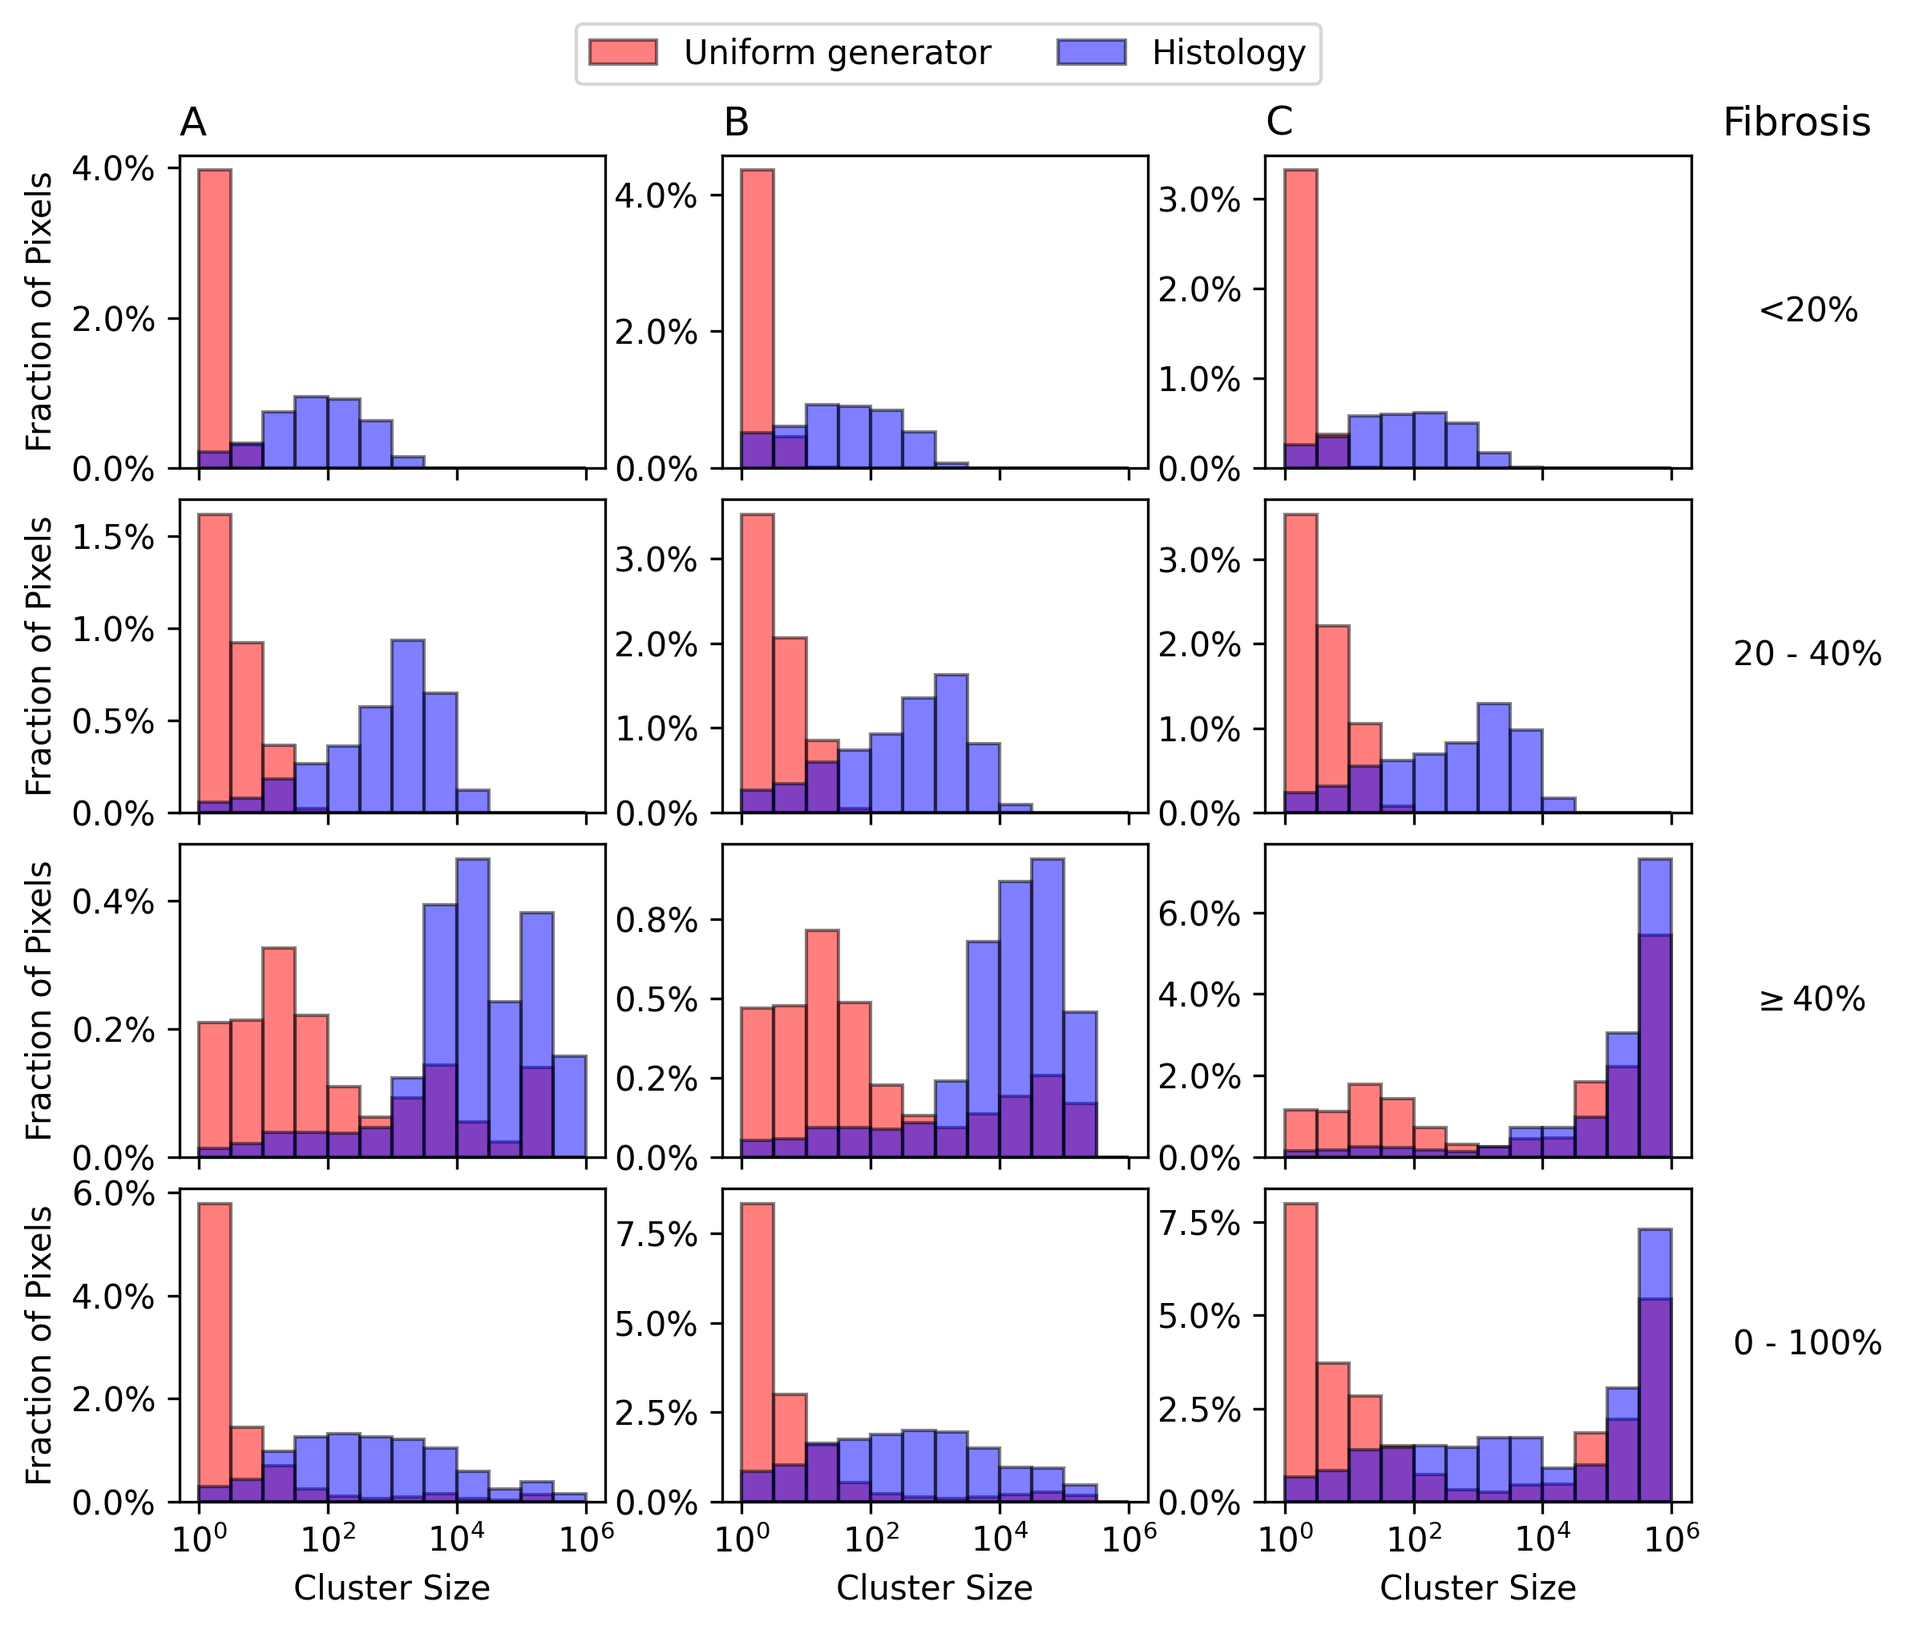
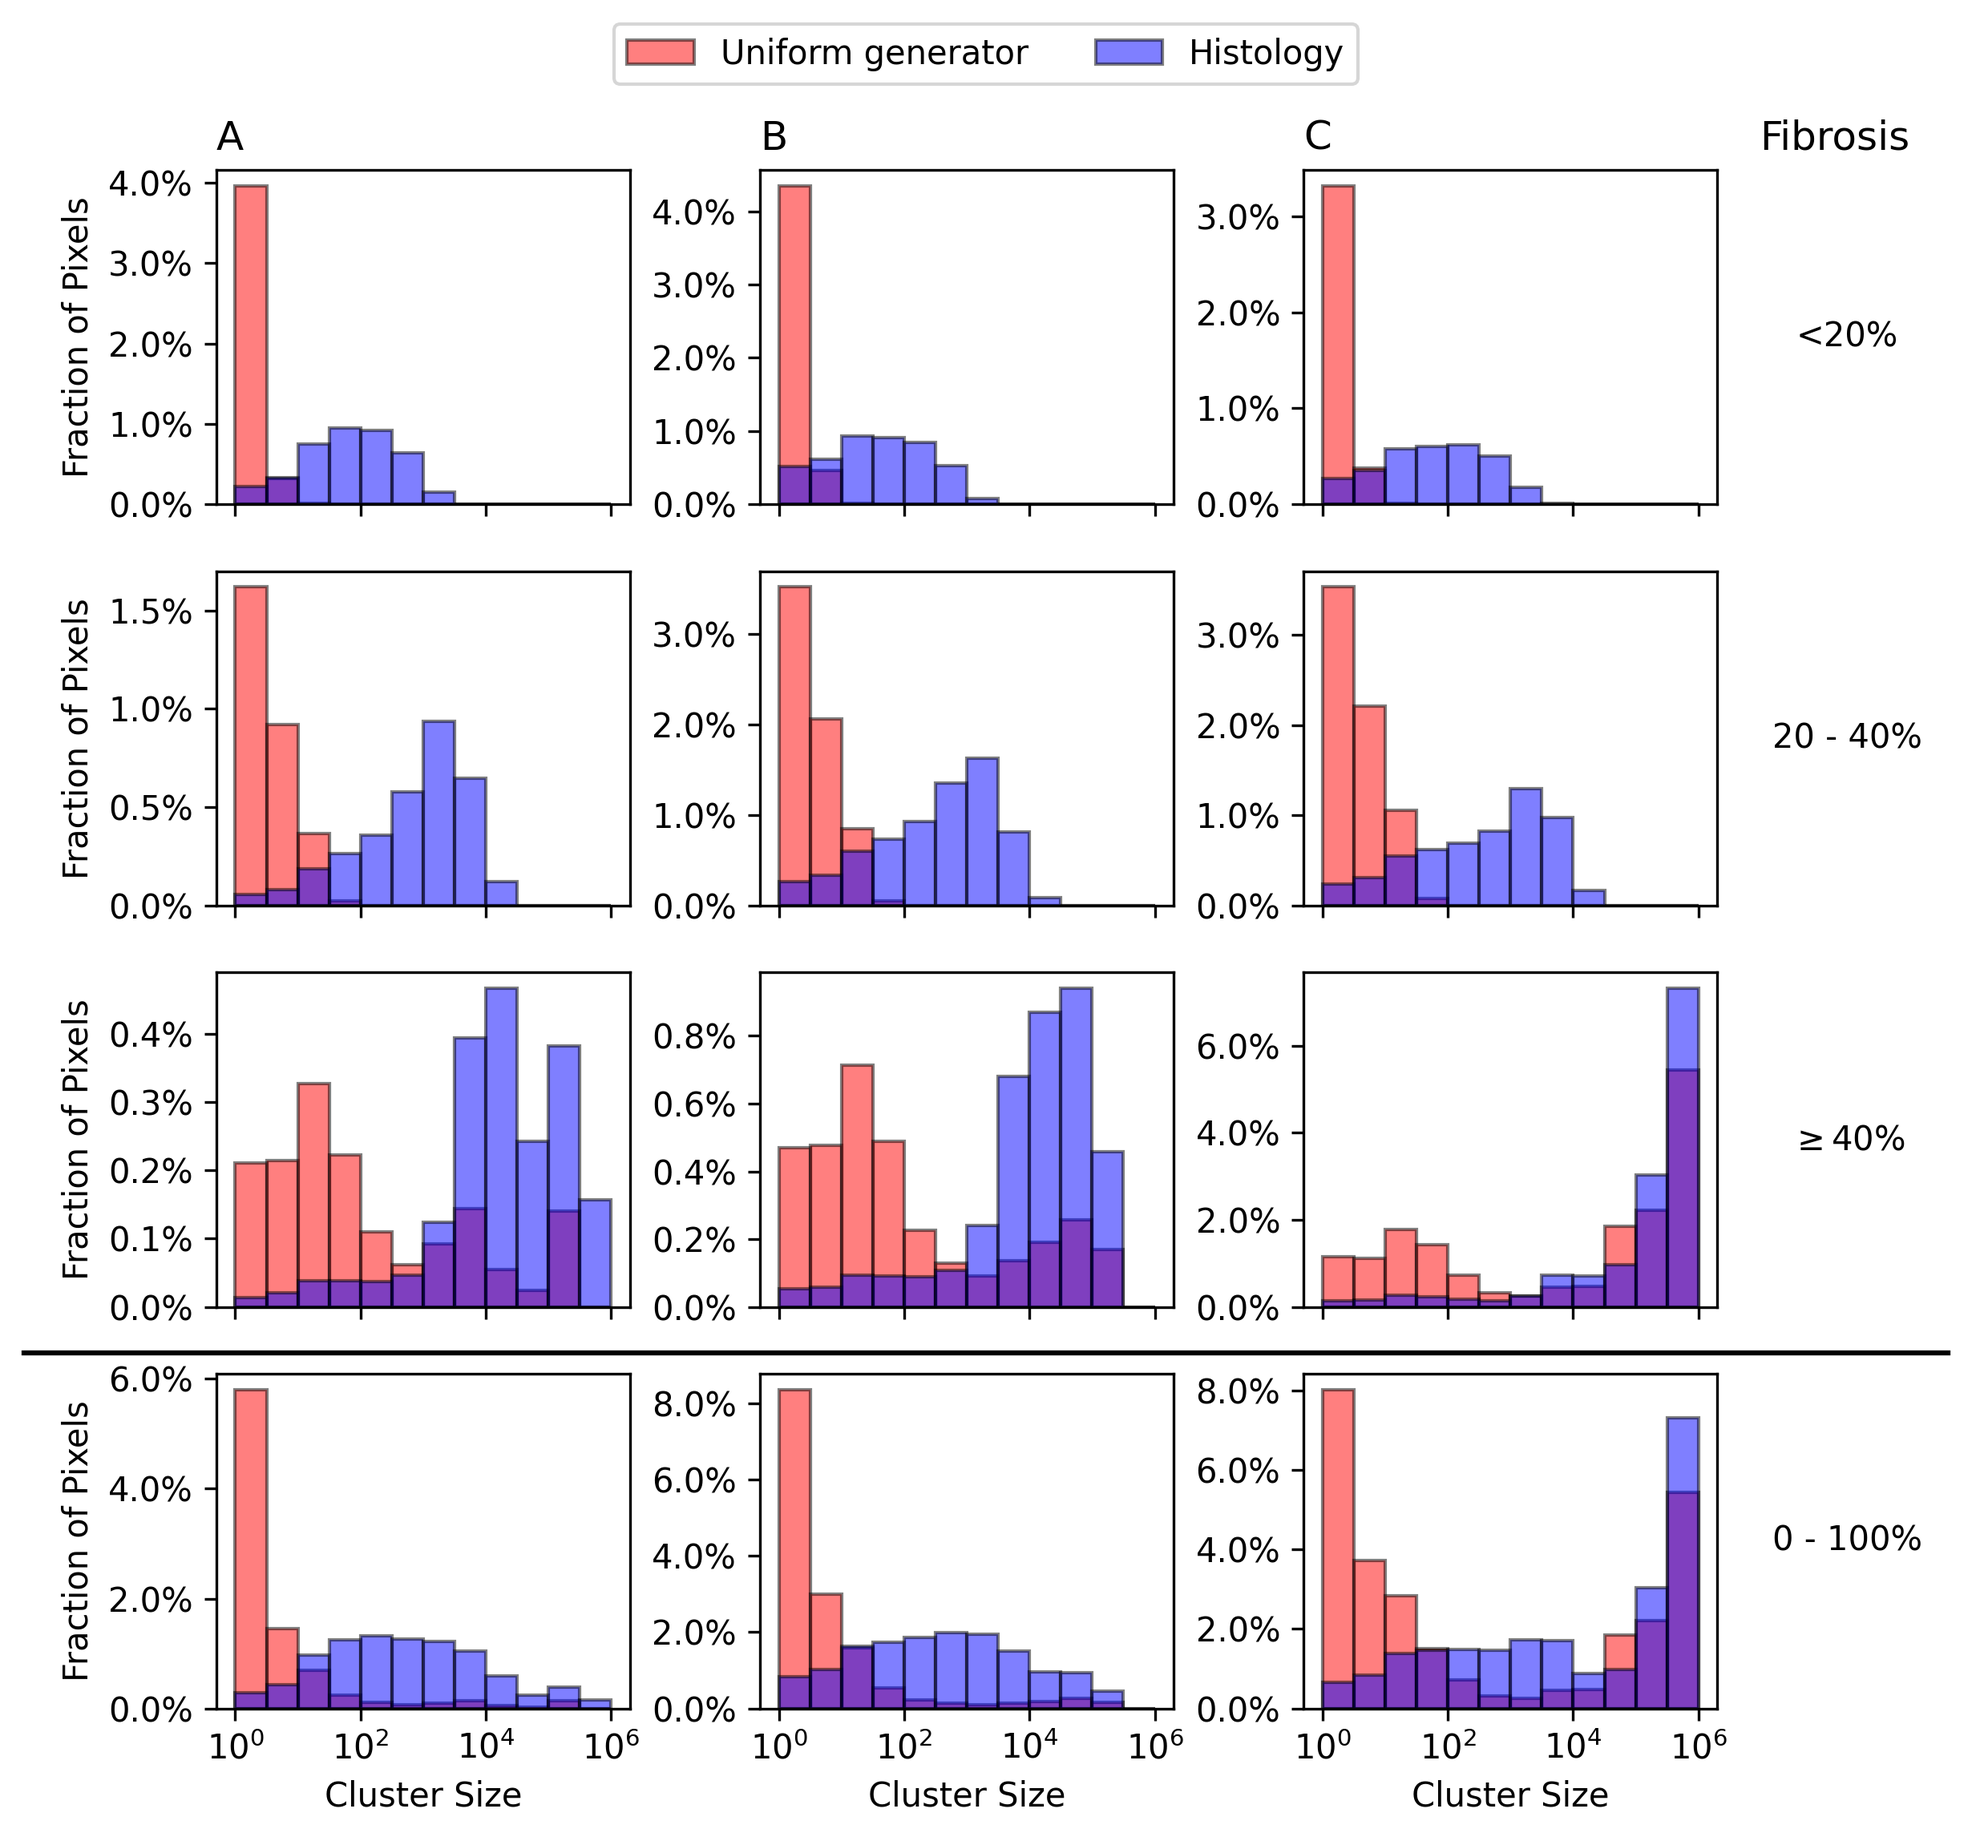
Update cluster size and shape

diff --git a/fibrosisanalysis/segmentation/angular_segments.py b/fibrosisanalysis/segmentation/angular_segments.py
@@ -71,7 +71,7 @@ class AngularSegments:
         return labels
 
     @staticmethod
-    def build(spline_edges, number_of_segments, node_step=1,
+    def build(spline_edges, number_of_segments, node_step=3,
               optimization_step=5):
         """Compute the starting and ending points of radial lines for
         segmentation.
@@ -92,6 +92,12 @@ class AngularSegments:
         tuple
             Tuple containing starting and ending points of radial lines.
         """
+
+        number_of_segments = number_of_segments * node_step
+
+        if number_of_segments < 36:
+            raise ValueError('Number of segments should be at least 36.')
+
         epi_nodes = spline_edges[-1].sample_nodes(number_of_segments)
 
         number_of_nodes = optimization_step * number_of_segments

diff --git a/fibrosisanalysis/slice/heart_slice.py b/fibrosisanalysis/slice/heart_slice.py
@@ -206,7 +206,7 @@ class HeartSliceBuilder:
             The built HeartSlice object.
         """
         spline_edges = AngularSegments.build(self.heart_slice.spline_edges,
-                                             n_angular, n_radial, node_step)
+                                             n_angular, node_step)
         spline_edges = RadialSegments.build(spline_edges, n_radial, node_step)
 
         wall_mask = RadialSegments.wall_mask(self.heart_slice.image,

diff --git a/fibrosisanalysis/segmentation/spline_edge.py b/fibrosisanalysis/segmentation/spline_edge.py
@@ -134,7 +134,5 @@ class SplineEdge:
         np.ndarray
             Vector arrays
         """
-        direction = (np.roll(self.ordered_nodes, -1, axis=0)
-                     - self.ordered_nodes)
-
+        direction = (np.roll(self.nodes, -1, axis=0) - self.nodes)
         return direction

diff --git a/examples/segmentation/example_segmentation.py b/examples/segmentation/example_segmentation.py
@@ -6,7 +6,7 @@ from fibrosisanalysis.segmentation.angular_segments import AngularSegments
 from fibrosisanalysis.segmentation.radial_segments import RadialSegments
 
 
-n_angular_segments = 12
+n_angular_segments = 36
 n_radial_segments = 3
 
 r_x = {'endo': 100, 'epi': 150}
